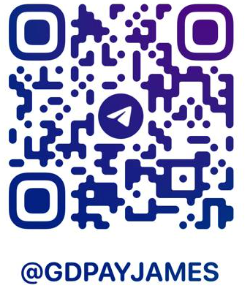
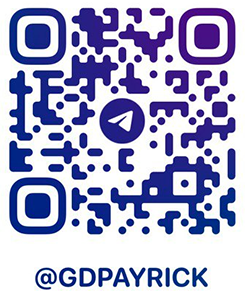
modify

diff --git a/pages/announcement/2.vue b/pages/announcement/2.vue
@@ -7,7 +7,7 @@
         近期有很多不法份子冒充GDPAY商务邀请进行开户，骗取首充奖励。未避免您的损失请各位合作伙伴在开户前，先核对真实身份<br />
         GDpay唯一官方网站：
         <a class="cursor-pointer text-blue" href="https://www.gdpay.cc/" target="_blank">https://www.gdpay.cc/</a> <br />
-        GDPay唯一官方商务飞机：@GDPAYJAMES<br />
+        GDPay唯一官方商务飞机：@GDPAYRICK<br />
         <QrcodeImage src="images/anno2.png" />
       </p>
       <p class="text-[2.963vw] mt-[4vw] xl:mt-[2vw] text-justify xl:text-[18px]">另外 GDPay官方人员不会以任何形式向您发送转款链接<br />
